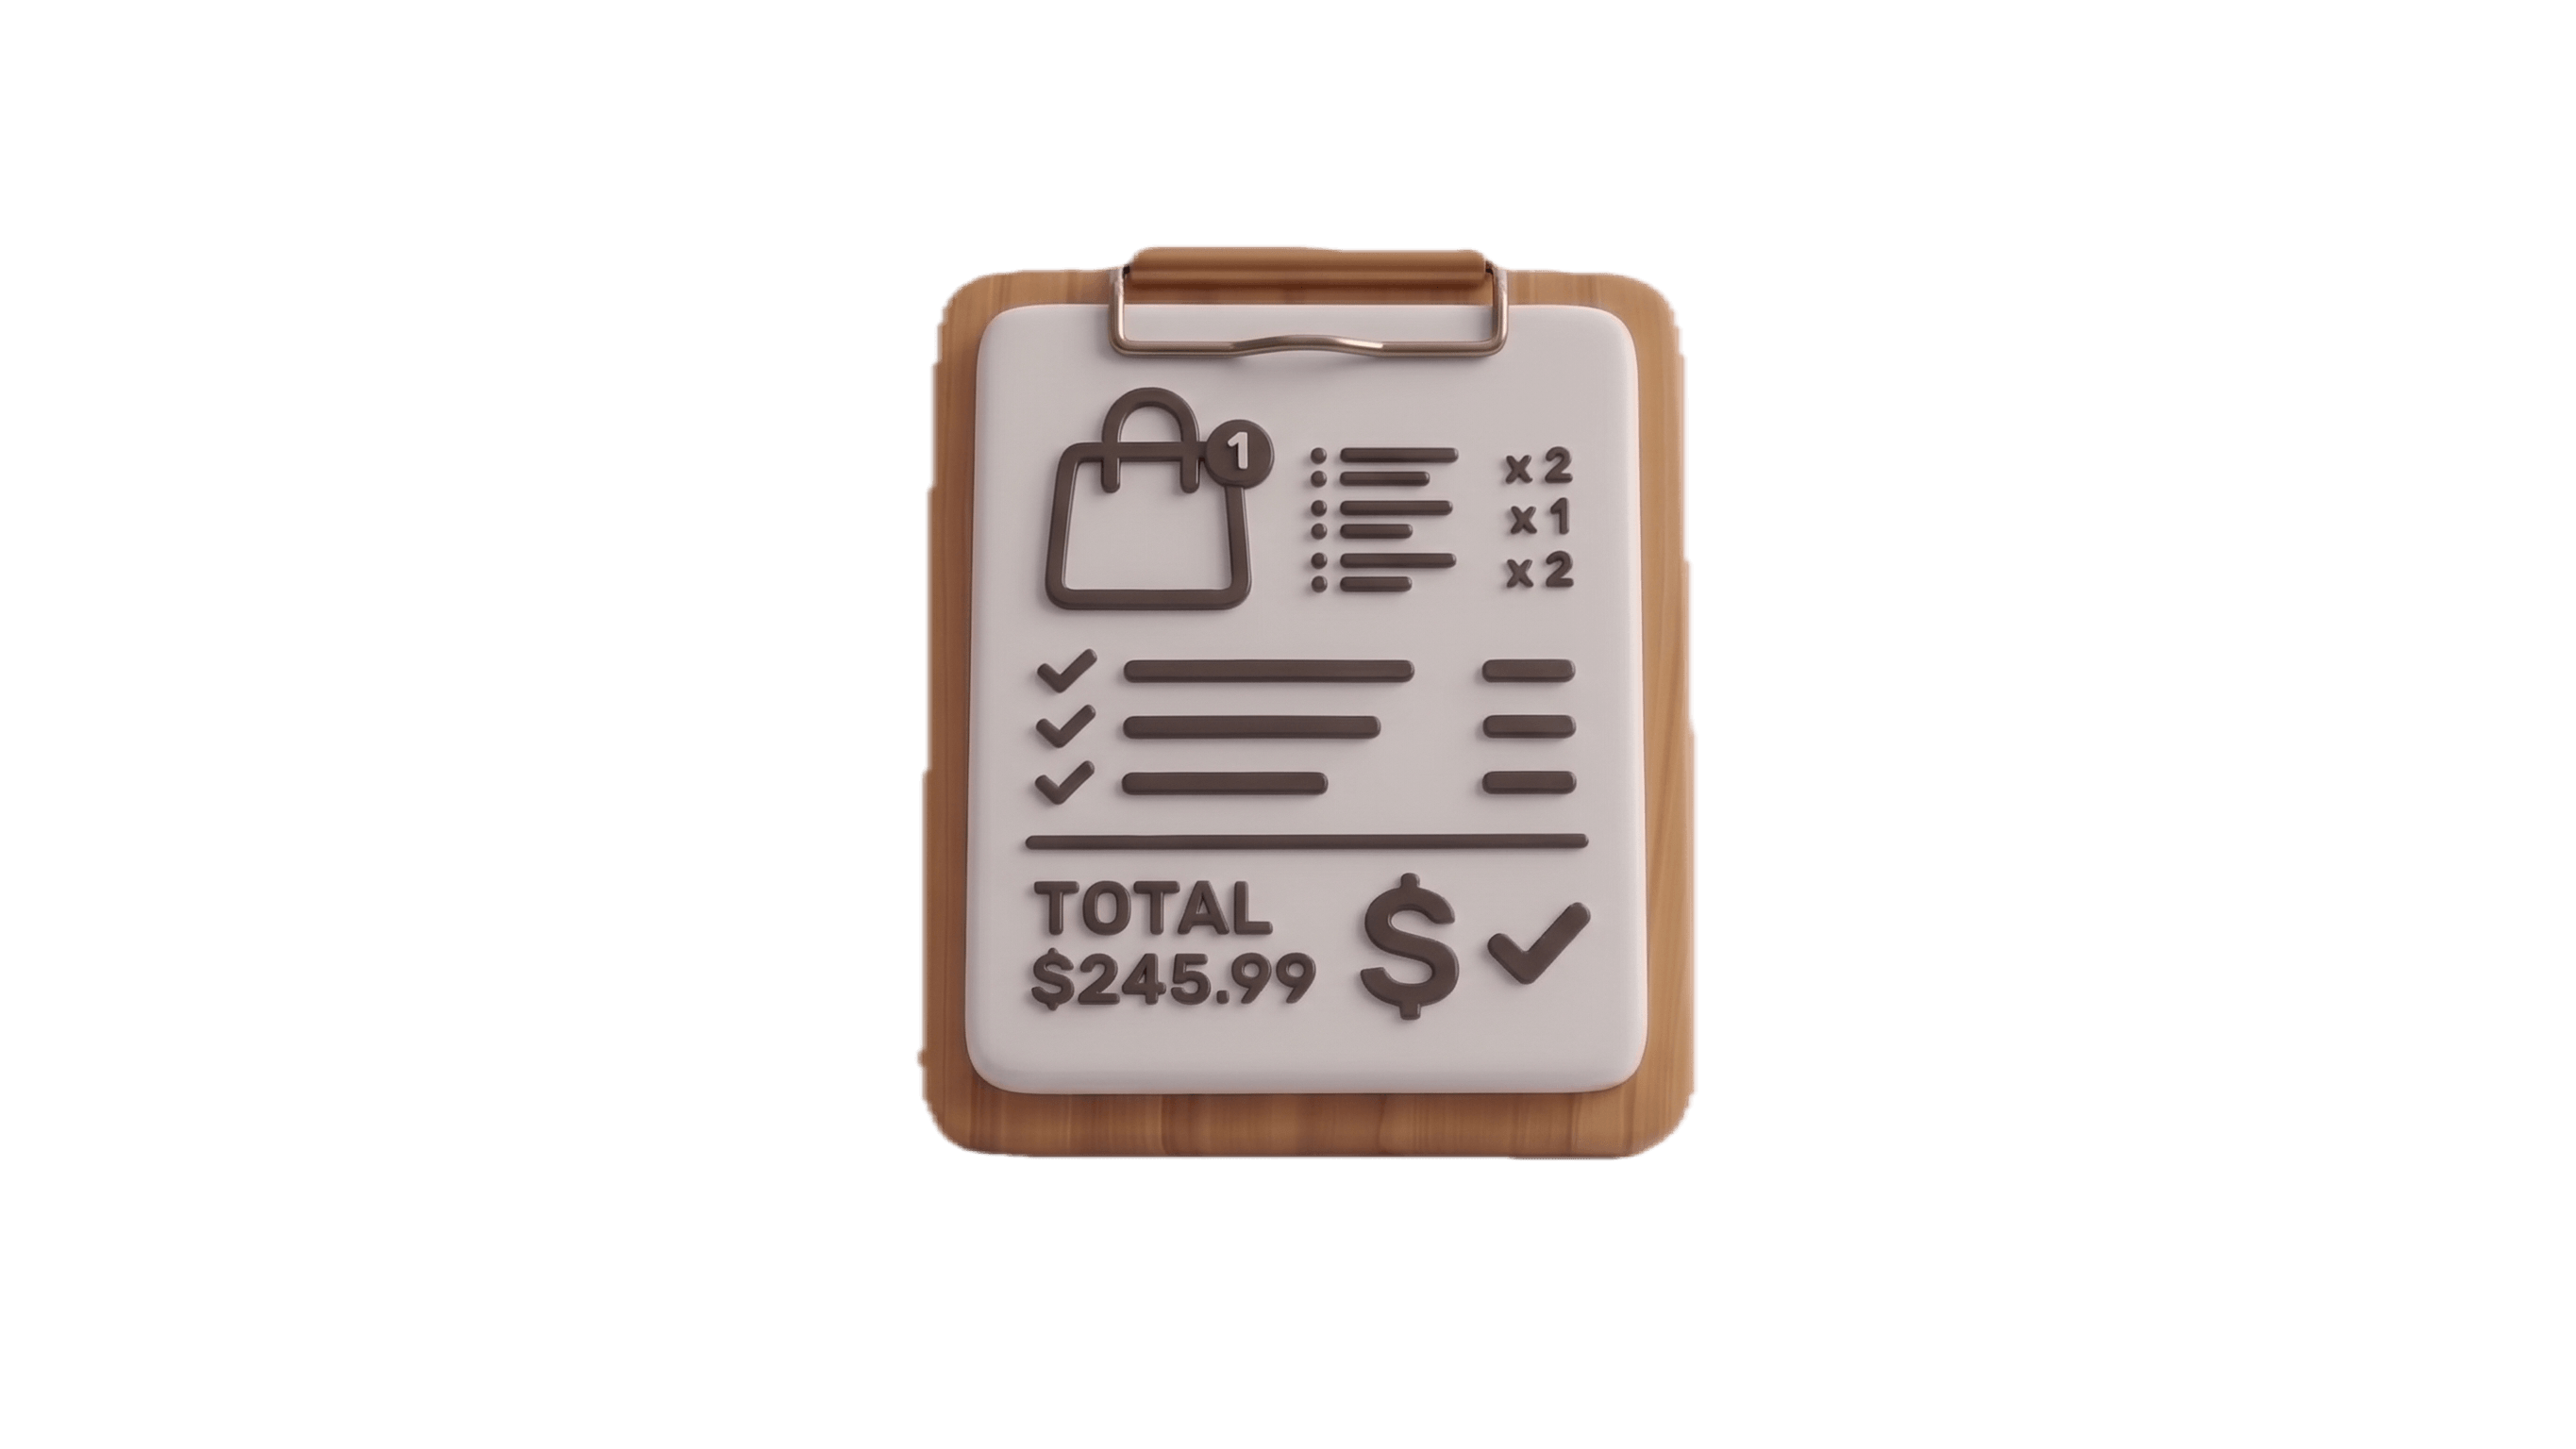
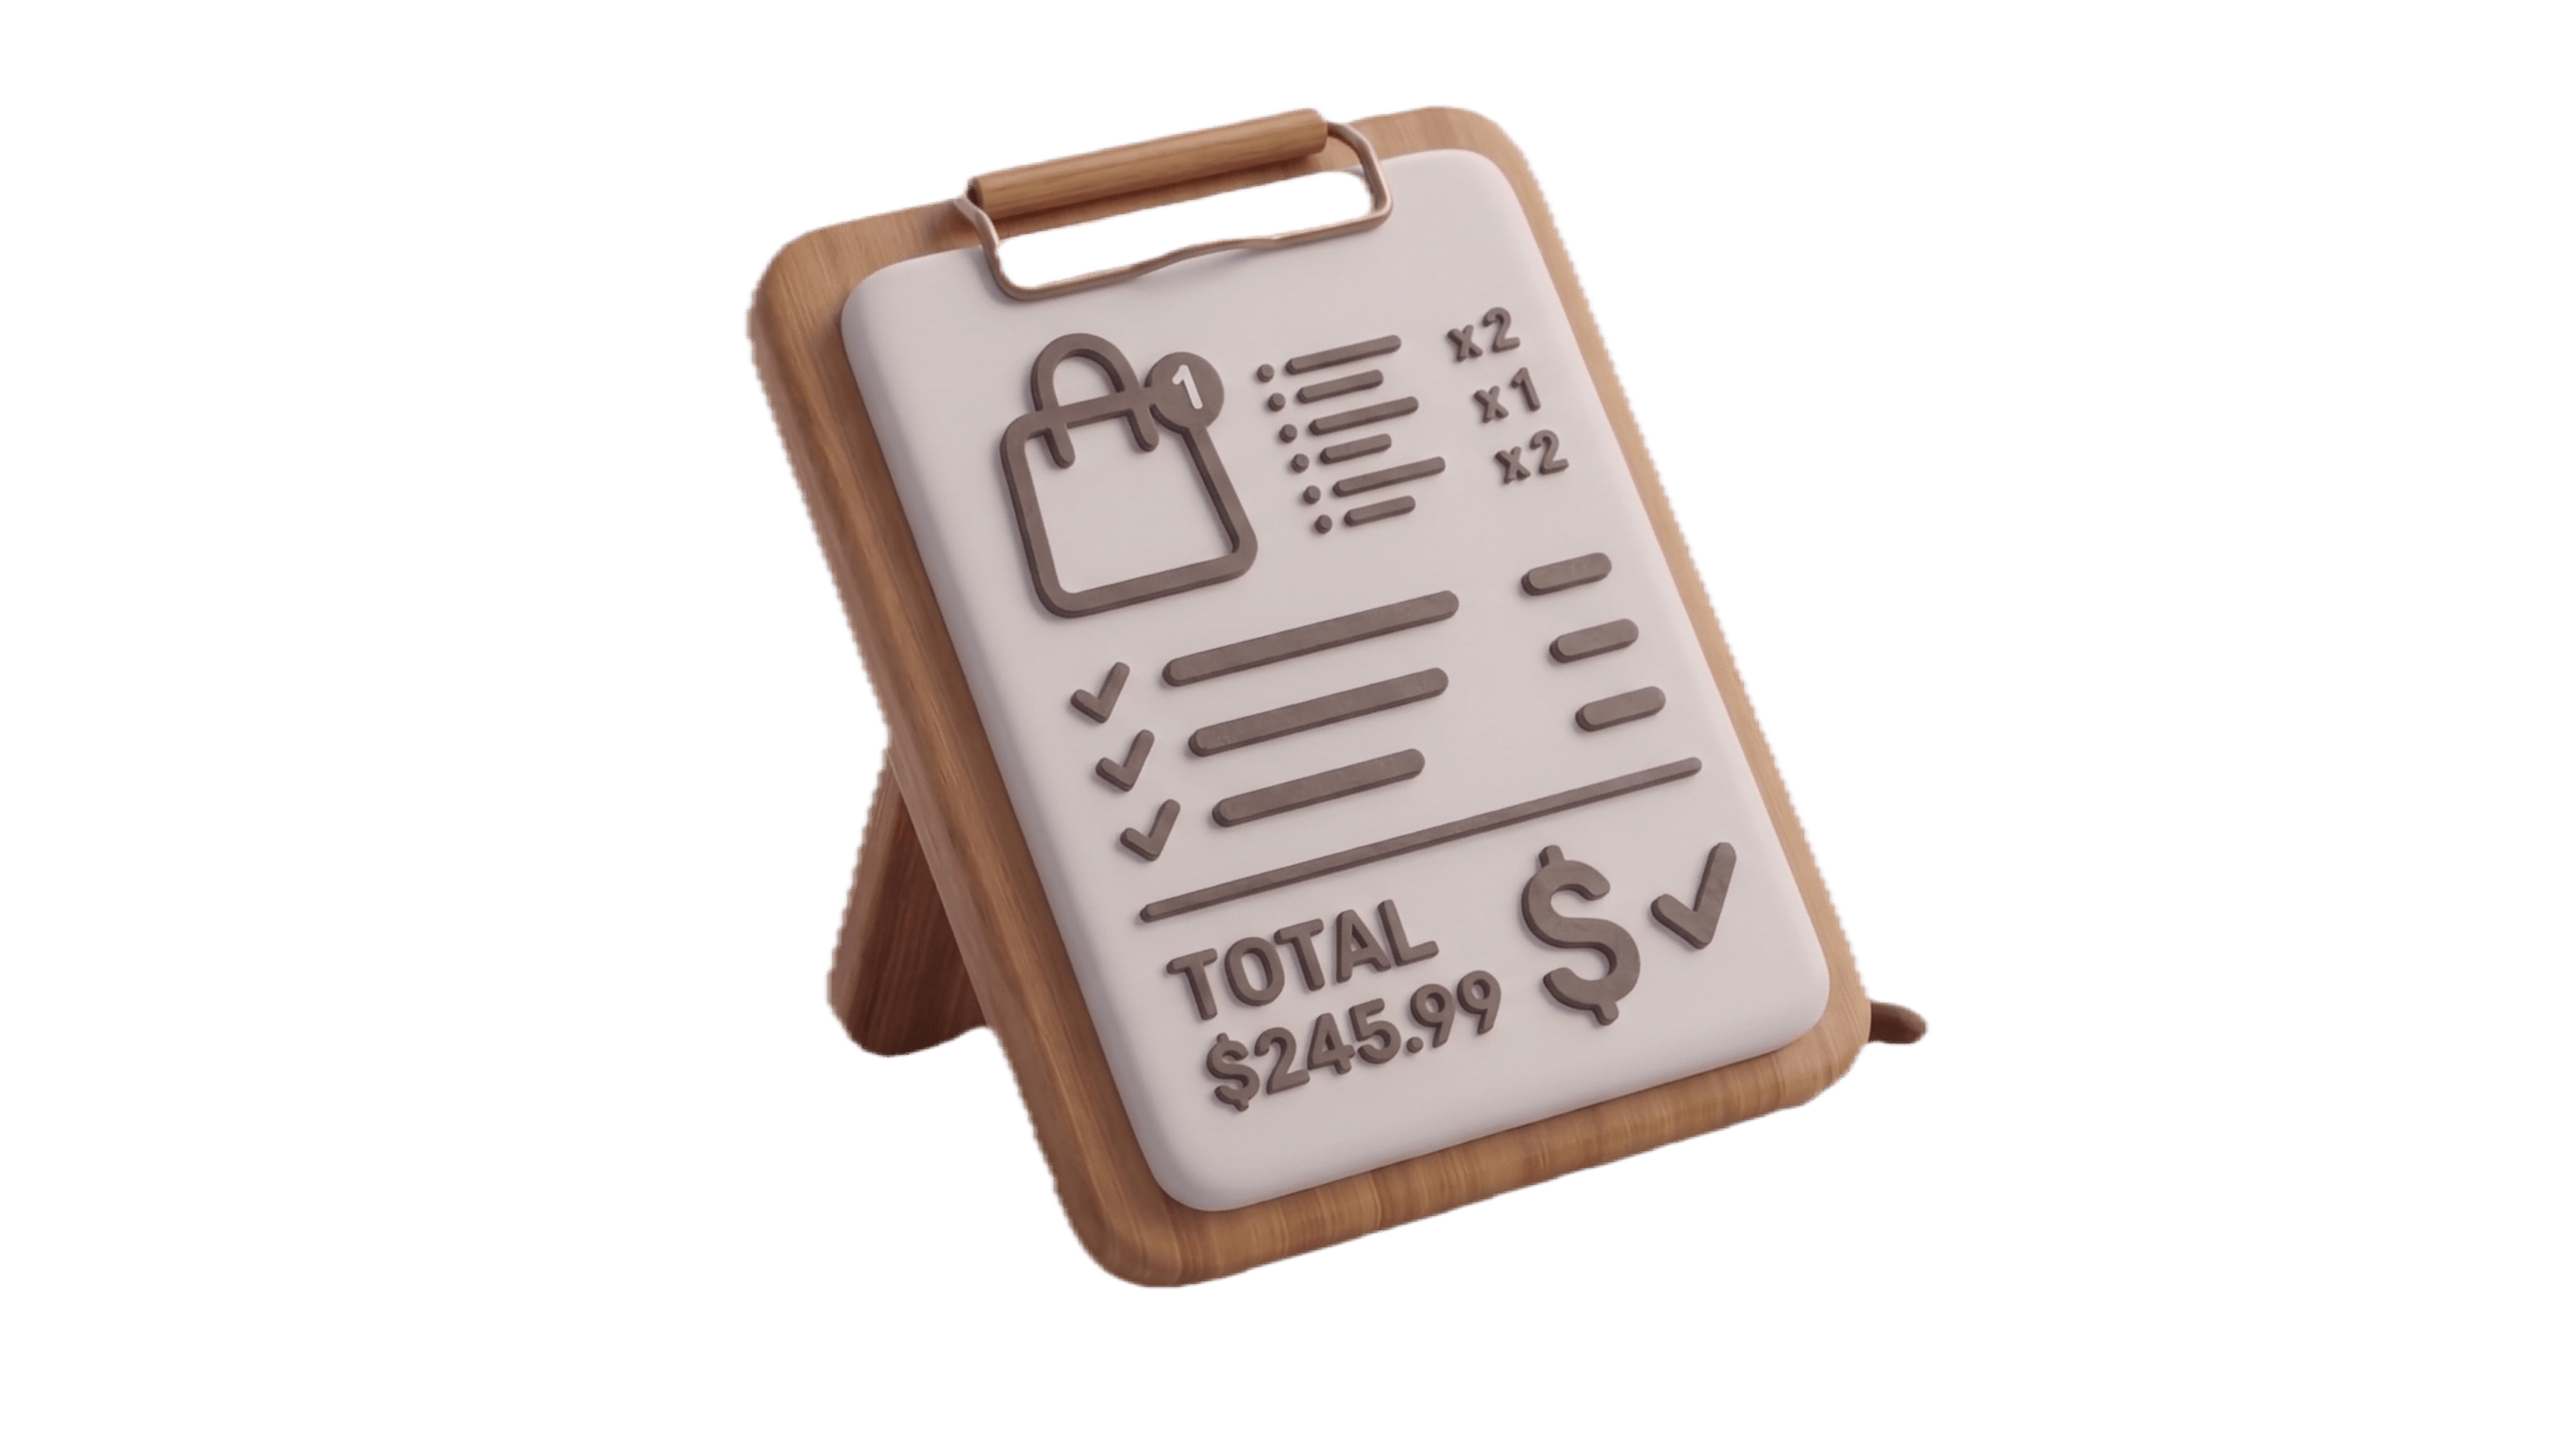
refactor: update UI styling with rounded corners, new color scheme, and improved order summary layout

Changed region(s): [[0.2802, 0.0625, 0.7473, 0.9062]]

diff --git a/src/pages/BreadPreOrderPage.tsx b/src/pages/BreadPreOrderPage.tsx
@@ -102,9 +102,8 @@ function LoafRow({
 
   return (
     <div
-      className={`grid grid-cols-[88px_1fr] gap-4 border-b border-stone-200 py-5 transition last:border-b-0 sm:grid-cols-[116px_1fr] ${
-        selected ? 'opacity-100' : 'opacity-80'
-      }`}
+      className={`grid grid-cols-[88px_1fr] gap-4 border-b border-stone-200 py-5 transition last:border-b-0 sm:grid-cols-[116px_1fr] ${selected ? 'opacity-100' : 'opacity-80'
+        }`}
     >
       <div className="relative h-24 overflow-hidden rounded-[8px] bg-stone-100 sm:h-28">
         <img src={image} alt={title} className="absolute inset-0 h-full w-full object-contain p-2" />
@@ -123,7 +122,7 @@ function LoafRow({
             </div>
             <p className="mt-1 text-sm leading-5 text-stone-500">{description}</p>
           </div>
-          <p className="shrink-0 text-sm font-semibold text-stone-950">GH₵{price.toFixed(2)}</p>
+          <p className="shrink-0 text-sm font-semibold text-[#87512E]">GH₵{price.toFixed(2)}</p>
         </div>
 
         <div className="flex items-center justify-between gap-3">
@@ -399,13 +398,13 @@ export function BreadPreOrderPage() {
               </section>
 
               <section className="border-t border-stone-200 pt-7">
-                <div className="flex items-center gap-2">
+                <div className="flex items-center">
                   <img src="/assets/bread/date.png" alt="" className="h-14 w-14 object-contain bg-transparent" />
                   <h2 className="text-base font-semibold">Delivery day</h2>
                 </div>
 
                 {loadingSlots ? (
-                  <div className="mt-4 flex items-center rounded-[8px] border border-dashed border-stone-300 px-4 py-5 text-sm text-stone-500">
+                  <div className="mt-4 flex items-center rounded-2xl border border-dashed border-stone-300 px-4 py-5 text-sm text-stone-500">
                     <Loader2 className="mr-3 h-4 w-4 animate-spin" />
                     Checking availability
                   </div>
@@ -426,13 +425,12 @@ export function BreadPreOrderPage() {
                           type="button"
                           disabled={disabled}
                           onClick={() => setSelectedSlot(slotKey)}
-                          className={`rounded-[8px] border px-4 py-3 text-left transition ${
-                            disabled
-                              ? 'cursor-not-allowed border-stone-200 bg-stone-100 opacity-50'
-                              : selected
-                                ? 'border-[#AB6D40] bg-[#AB6D40] text-white'
-                                : 'border-stone-200 bg-white hover:border-stone-400'
-                          }`}
+                          className={`rounded-2xl border px-4 py-3 text-left transition ${disabled
+                            ? 'cursor-not-allowed border-stone-200 bg-stone-100 opacity-50'
+                            : selected
+                              ? 'border-[#AB6D40] bg-[#AB6D40] text-white'
+                              : 'border-stone-200 bg-white hover:border-stone-400'
+                            }`}
                         >
                           <div className="flex items-center justify-between gap-4">
                             <div className="min-w-0">
@@ -443,16 +441,14 @@ export function BreadPreOrderPage() {
                             </div>
                             <div className="flex shrink-0 items-center gap-3">
                               <p
-                                className={`text-xs font-medium uppercase tracking-[0.14em] ${
-                                  selected ? 'text-white/65' : 'text-stone-400'
-                                }`}
+                                className={`text-xs font-medium uppercase tracking-[0.14em] ${selected ? 'text-white/65' : 'text-stone-400'
+                                  }`}
                               >
                                 {slot.remaining} left
                               </p>
                               <span
-                                className={`grid h-5 w-5 place-items-center rounded-full border ${
-                                  selected ? 'border-white bg-white text-stone-950' : 'border-stone-300 text-transparent'
-                                }`}
+                                className={`grid h-5 w-5 place-items-center rounded-full border ${selected ? 'border-white bg-white text-stone-950' : 'border-stone-300 text-transparent'
+                                  }`}
                               >
                                 <Check className="h-3 w-3" />
                               </span>
@@ -479,7 +475,7 @@ export function BreadPreOrderPage() {
                         value={name}
                         onChange={(e) => setName(e.target.value)}
                         required
-                        className="h-12 rounded-[8px] border-stone-200 bg-white pl-11 text-base placeholder:text-sm focus-visible:ring-stone-950"
+                        className="h-12 rounded-2xl border-stone-200 bg-white pl-11 text-base placeholder:text-sm focus-visible:ring-stone-950"
                       />
                     </FieldWrap>
                   </div>
@@ -497,7 +493,7 @@ export function BreadPreOrderPage() {
                           value={phone}
                           onChange={(e) => setPhone(e.target.value)}
                           required
-                          className="h-12 rounded-[8px] border-stone-200 bg-white pl-11 text-base placeholder:text-sm focus-visible:ring-stone-950"
+                          className="h-12 rounded-2xl border-stone-200 bg-white pl-11 text-base placeholder:text-sm focus-visible:ring-stone-950"
                         />
                       </FieldWrap>
                     </div>
@@ -512,7 +508,7 @@ export function BreadPreOrderPage() {
                           placeholder="[email redacted]"
                           value={email}
                           onChange={(e) => setEmail(e.target.value)}
-                          className="h-12 rounded-[8px] border-stone-200 bg-white pl-11 text-base placeholder:text-sm focus-visible:ring-stone-950"
+                          className="h-12 rounded-2xl border-stone-200 bg-white pl-11 text-base placeholder:text-sm focus-visible:ring-stone-950"
                         />
                       </FieldWrap>
                     </div>
@@ -529,7 +525,7 @@ export function BreadPreOrderPage() {
                         value={address}
                         onChange={(e) => setAddress(e.target.value)}
                         required
-                        className="h-12 rounded-[8px] border-stone-200 bg-white pl-11 text-base placeholder:text-sm focus-visible:ring-stone-950"
+                        className="h-12 rounded-2xl border-stone-200 bg-white pl-11 text-base placeholder:text-sm focus-visible:ring-stone-950"
                       />
                     </FieldWrap>
                   </div>
@@ -544,7 +540,7 @@ export function BreadPreOrderPage() {
           </section>
 
           <aside className="h-fit rounded-[8px] bg-white p-5 shadow-sm lg:sticky lg:top-6">
-            <div className="flex items-center gap-2">
+            <div className="flex items-center">
               <img src="/assets/bread/order.png" alt="" className="h-14 w-14 object-contain bg-transparent" />
               <h2 className="text-base font-semibold">Order summary</h2>
             </div>
@@ -578,7 +574,7 @@ export function BreadPreOrderPage() {
             <Button
               type="submit"
               disabled={isProcessing || loadingSlots || slots.length === 0 || !selectedSlot}
-              className="mt-5 h-12 w-full rounded-full bg-stone-950 text-base font-semibold text-white hover:bg-stone-800"
+              className="mt-5 h-12 w-full rounded-full bg-[#AB6D40] text-base font-semibold text-white hover:bg-[#965E38]"
             >
               {isProcessing ? (
                 <>